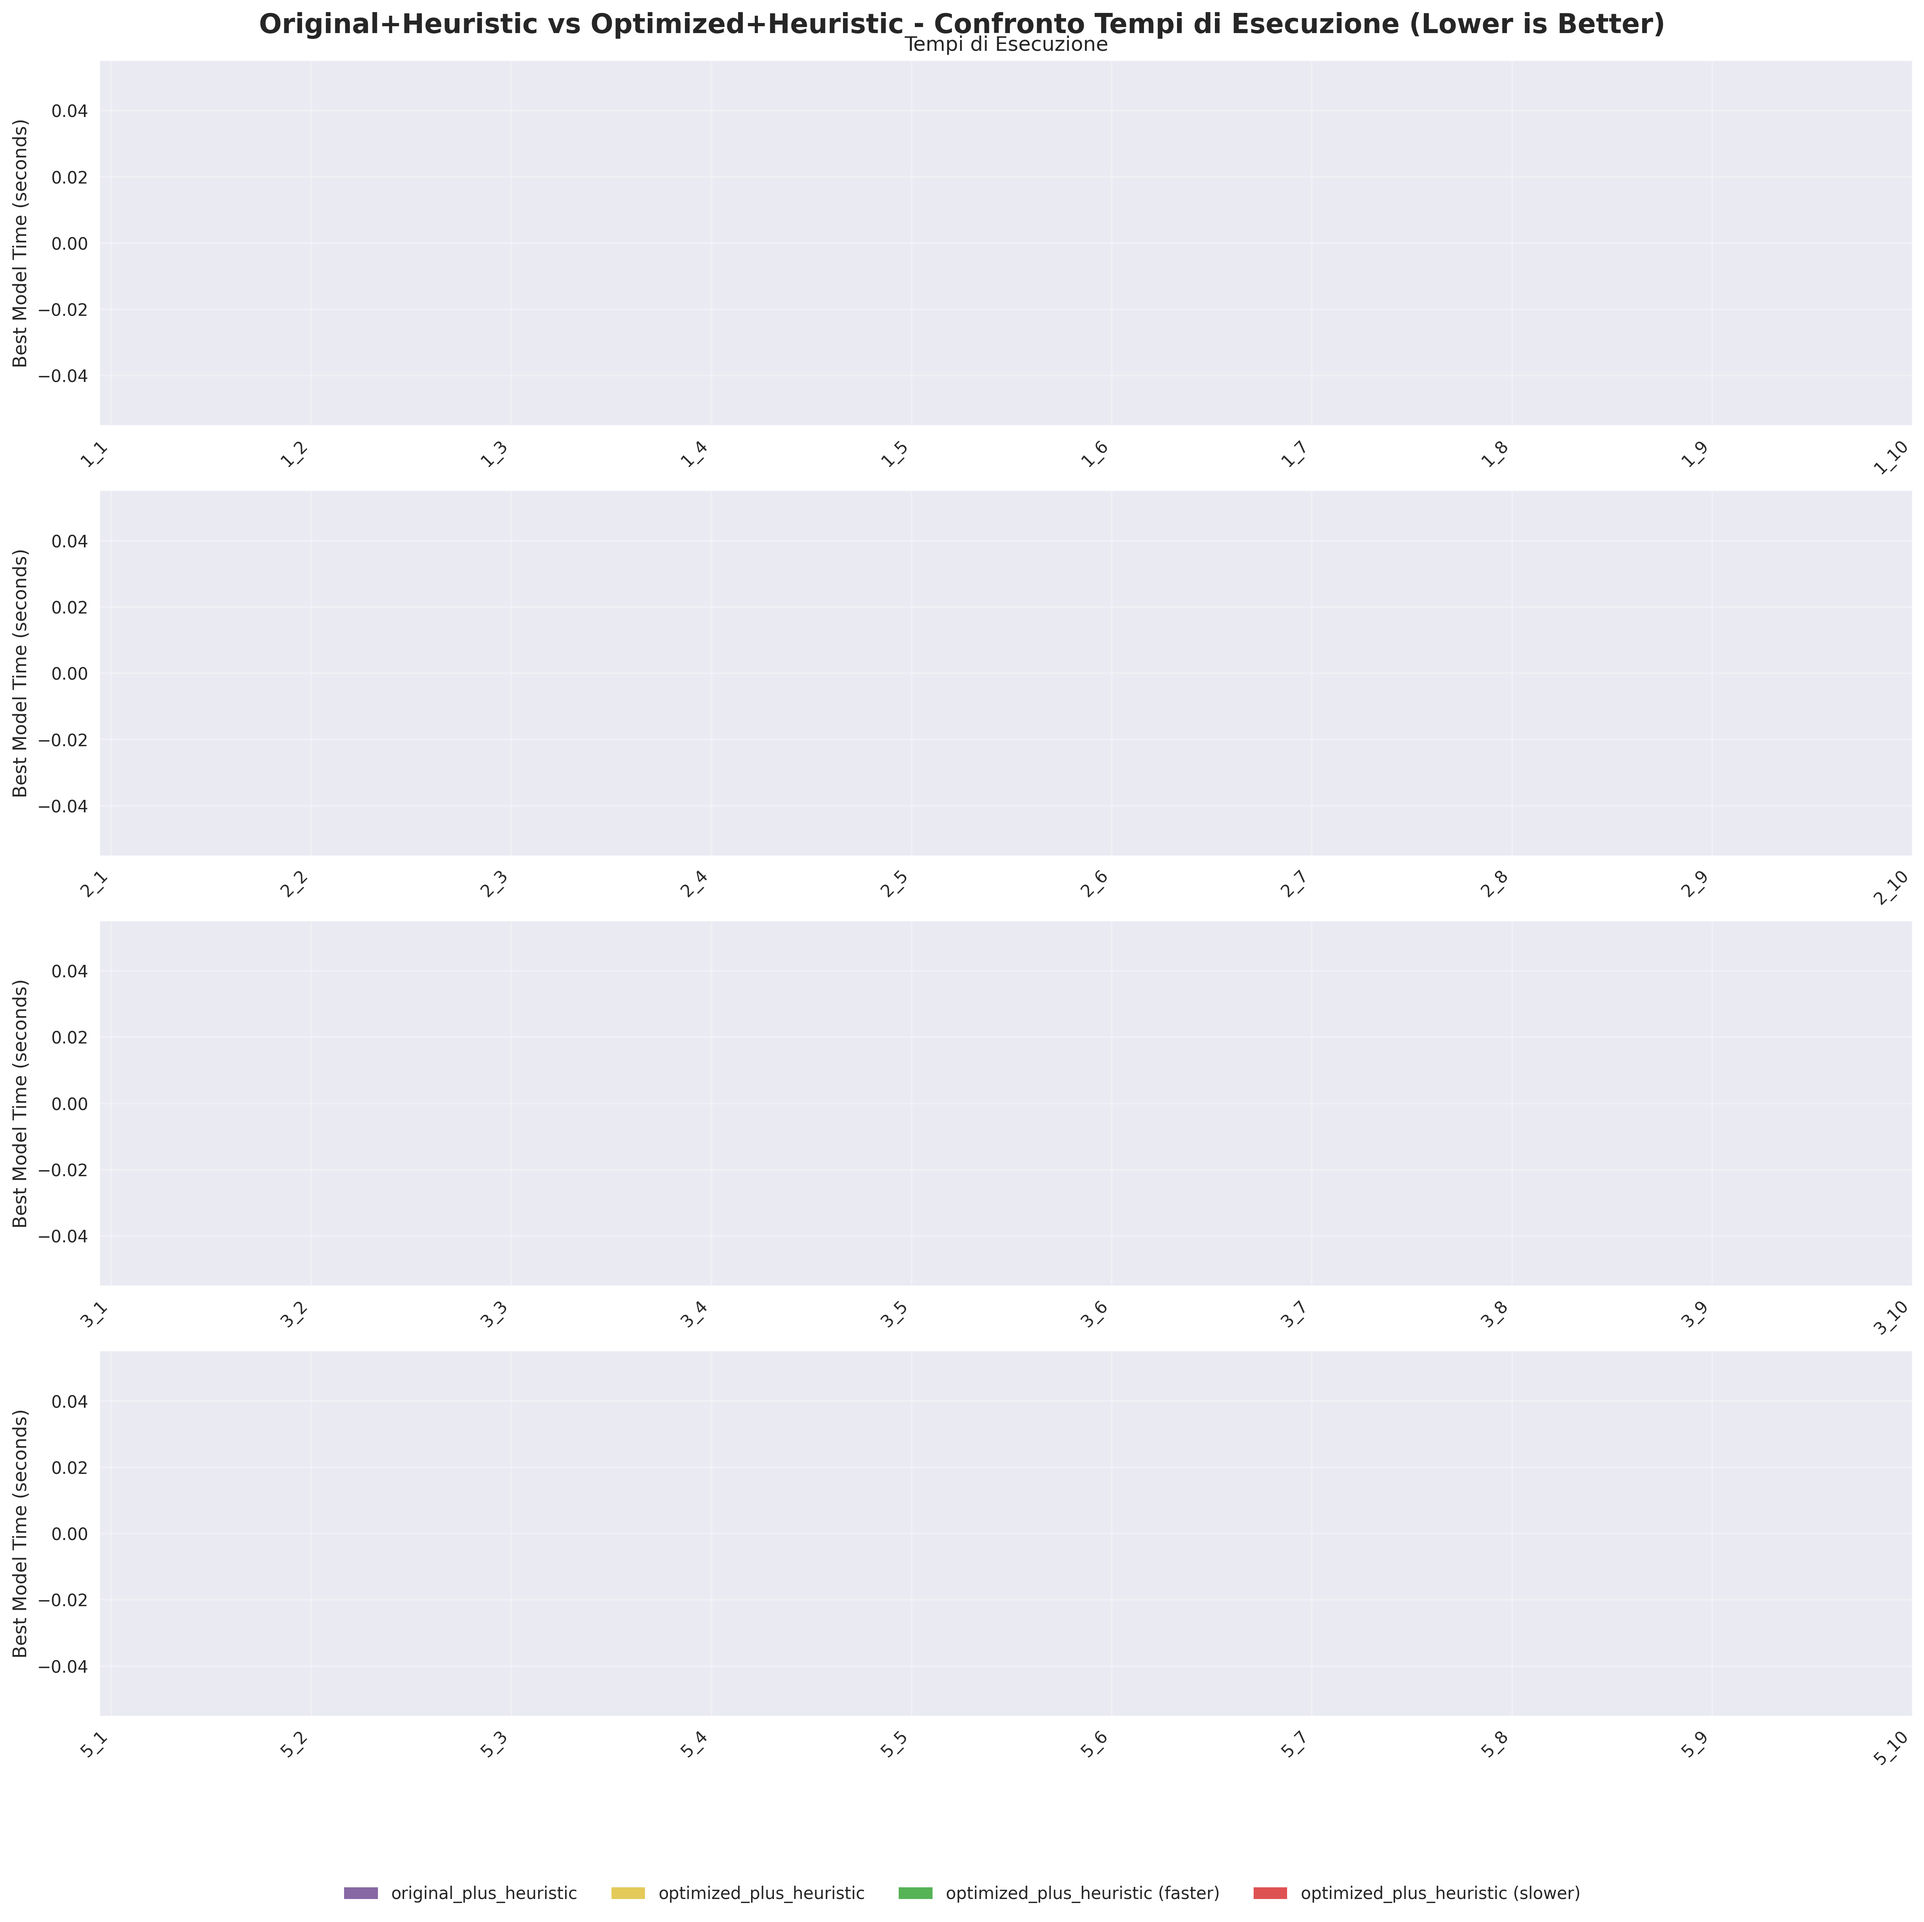
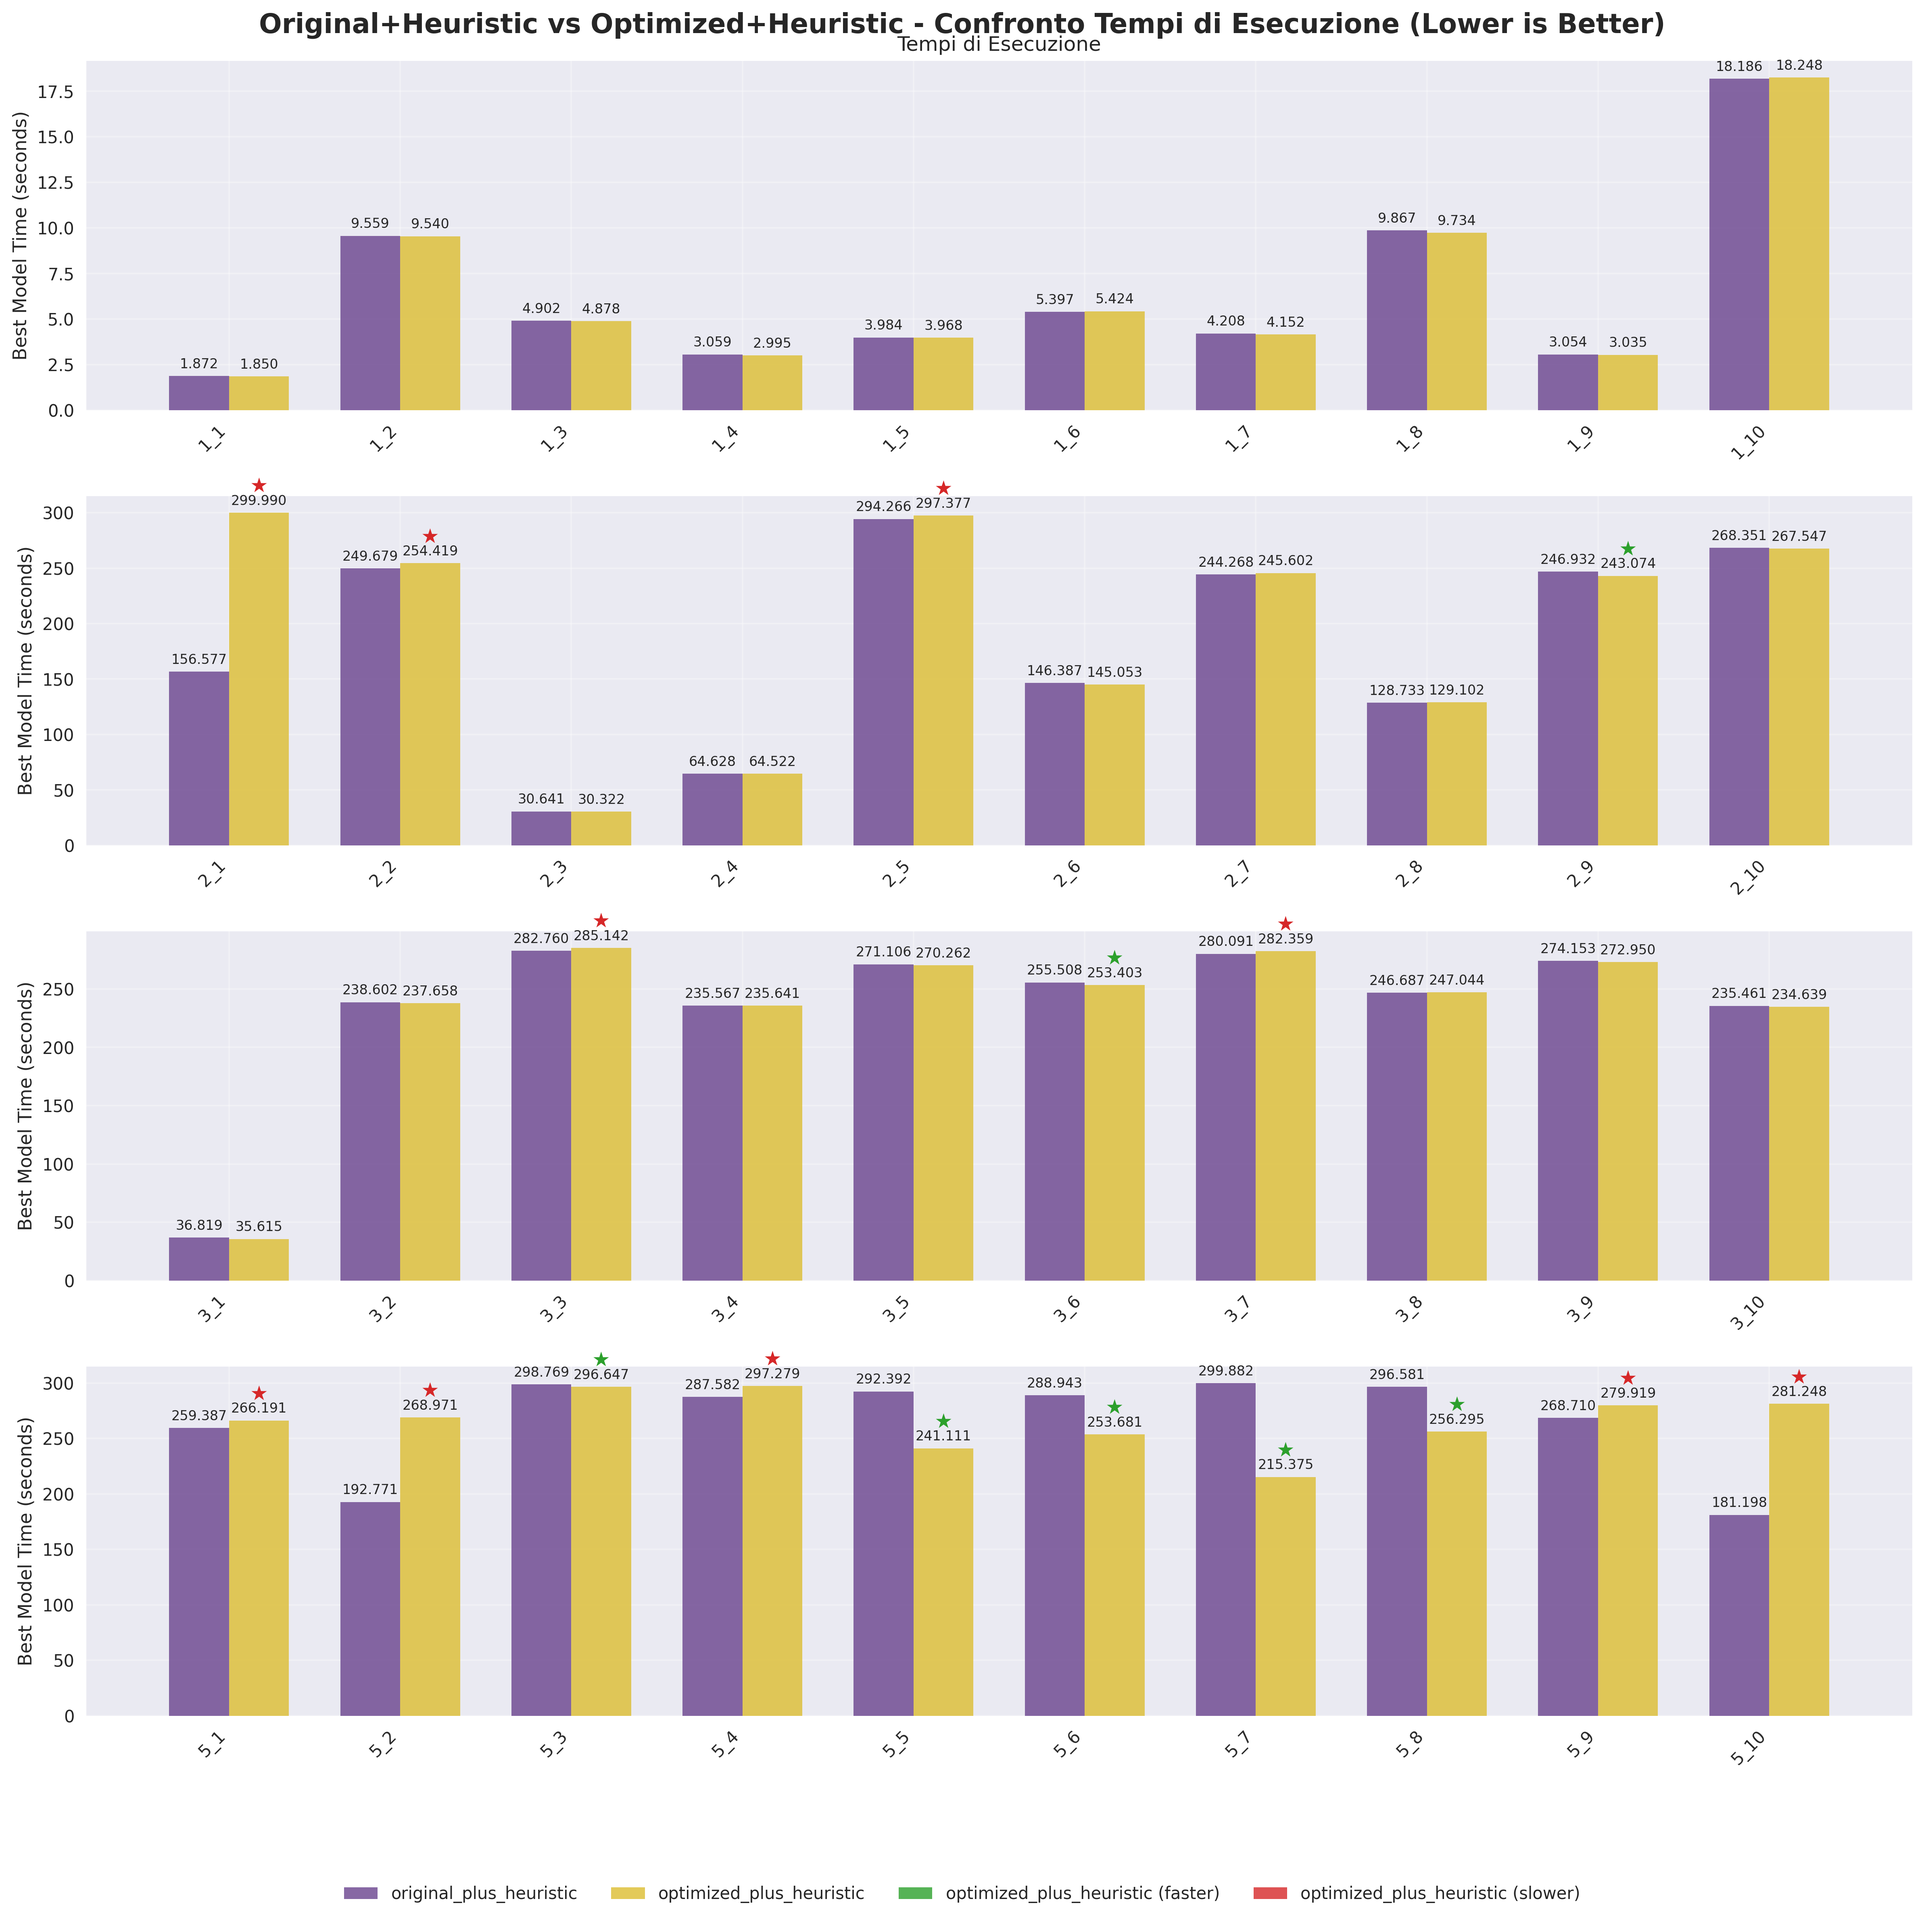
quick push

diff --git a/Results/5_generate_graphs.py b/Results/5_generate_graphs.py
@@ -67,7 +67,7 @@ def create_cost_comparison_charts(df, encoding1, encoding2, title_prefix=""):
     if n_groups == 1:
         axes = axes.reshape(1, -1)
     
-    fig.suptitle(f'{title_prefix} - Confronto Costi (Lower is Better)', fontsize=16, fontweight='bold')
+    fig.suptitle(f'{title_prefix} - Cost (Lower is Better)', fontsize=16, fontweight='bold')
     
     # Schema colori basato sui tipi di encoding
     color_map = {
@@ -252,7 +252,7 @@ def create_time_comparison_chart(df, encoding1, encoding2, title_prefix=""):
     if n_groups == 1:
         axes = [axes]
     
-    fig.suptitle(f'{title_prefix} - Confronto Tempi di Esecuzione (Lower is Better)', fontsize=16, fontweight='bold')
+    fig.suptitle(f'{title_prefix} - Timing (Lower is Better)', fontsize=16, fontweight='bold')
     
     # Schema colori basato sui tipi di encoding
     color_map = {
